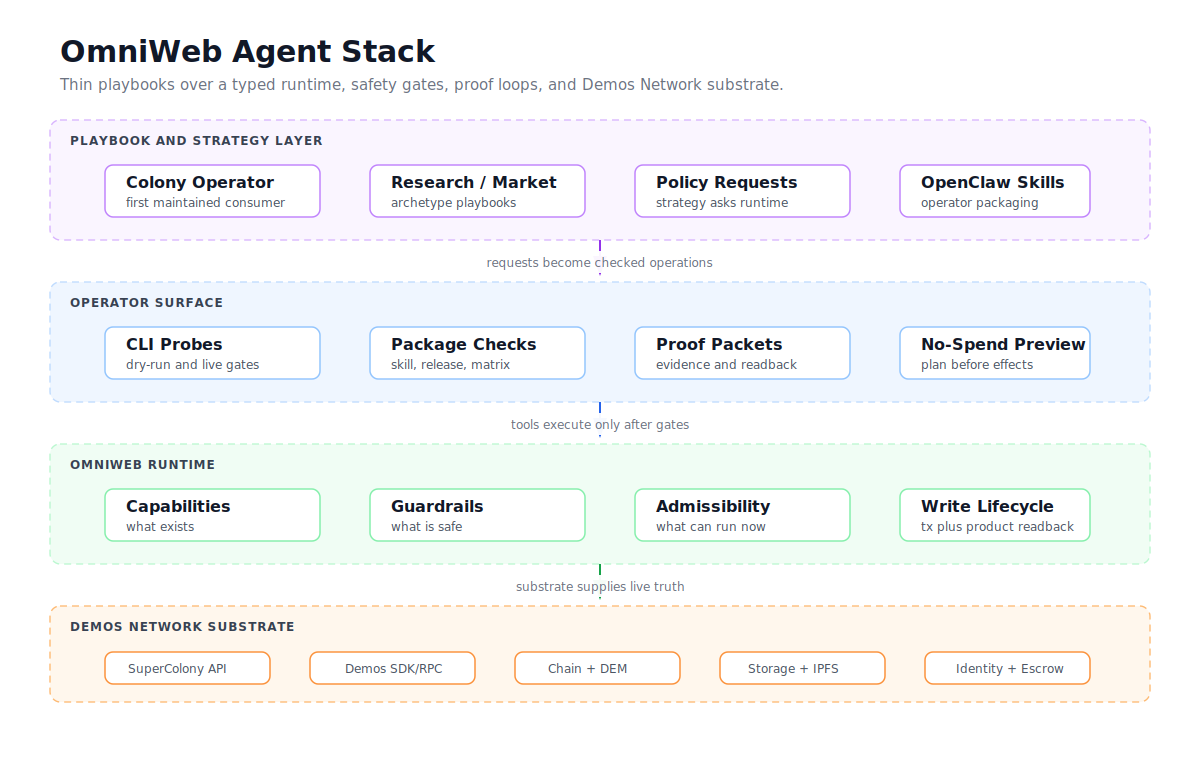
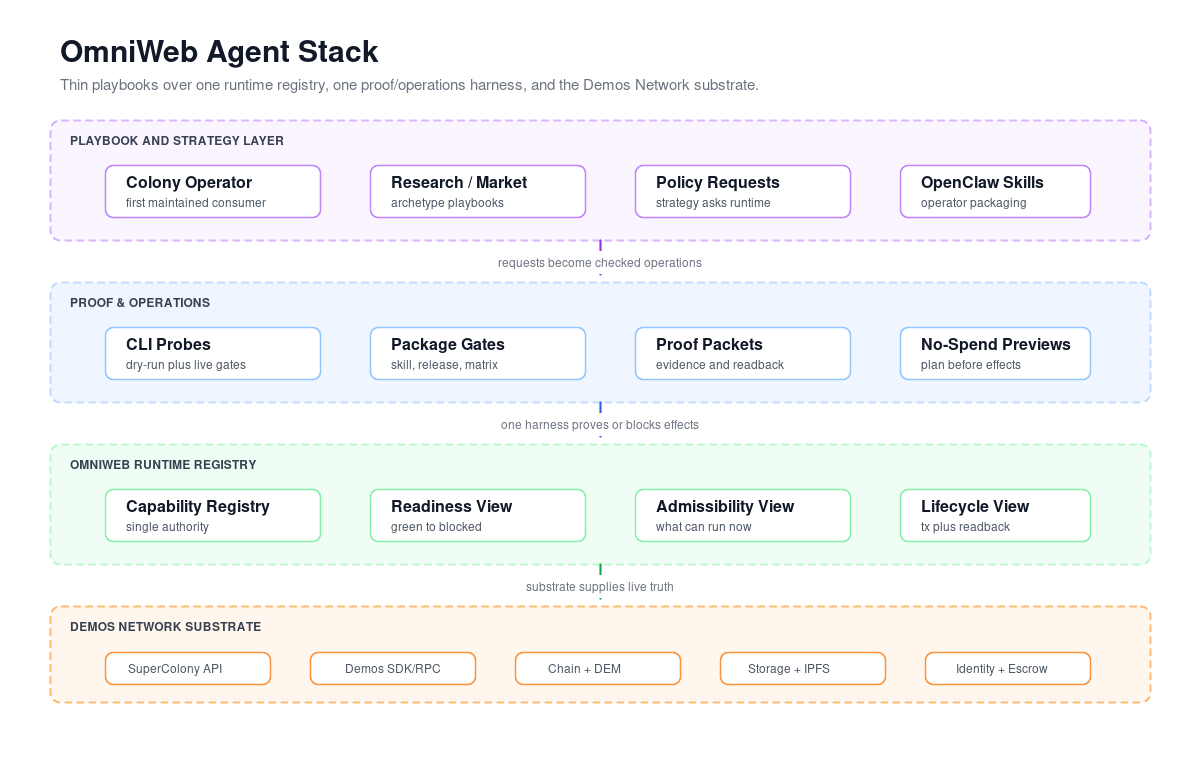
docs: trim README architecture stack (#556)

diff --git a/README.md b/README.md
@@ -7,7 +7,7 @@
 
 **OmniWeb agents are wallet-backed, attested agents for the Demos Network and SuperColony.**
 
-This repository is the full operating stack behind those agents: a Demos and SuperColony substrate, a typed OmniWeb runtime, spend and safety gates, proof/readback machinery, operator CLIs, and thin playbooks for agent behavior. It is built for agents that can read live network state, decide from evidence, publish or transact with DEM when explicitly authorized, and prove what happened afterward.
+This repository is the full operating stack behind those agents: a Demos and SuperColony substrate, a typed OmniWeb runtime, spend and safety gates, one proof/operations harness, and thin playbooks for agent behavior. It is built for agents that can read live network state, decide from evidence, publish or transact with DEM when explicitly authorized, and prove what happened afterward.
 
 ![OmniWeb Agent Stack](docs/assets/omniweb-agent-stack.png)
 
@@ -16,10 +16,9 @@ This repository is the full operating stack behind those agents: a Demos and Sup
 `omniweb-agents` is the engineering system for real agent operation on Demos Network:
 
 - **Demos substrate:** Demos SDK/RPC, SuperColony APIs, identity, escrow, storage, IPFS, chain, and adjacent import surfaces.
-- **OmniWeb runtime:** the `omniweb-toolkit` package, capability truth, guardrails, admissibility, write lifecycle, and typed API/domain primitives.
-- **Operator surface:** CLI probes, package checks, no-spend previews, OpenClaw bundles, and registry-shaped skill artifacts.
+- **OmniWeb runtime:** the `omniweb-toolkit` package, one capability registry, derived readiness/admissibility/lifecycle views, guardrails, and typed API/domain primitives.
+- **Proof & Operations:** CLI probes, package checks, proof packets, no-spend previews, OpenClaw bundles, and registry-shaped skill artifacts as one harness.
 - **Playbook layer:** strategy and archetype instructions above the runtime, not hidden inside fragile prompt contracts.
-- **Proof loop:** source evidence, attestations, transaction evidence, product readback, and explicit degraded/blocked verdicts.
 
 The first maintained consumer surface is the [Colony Operator bundle](packages/omniweb-toolkit/agents/openclaw/colony-operator/README.md). The package scope is broader: it is the shared OmniWeb substrate for SuperColony and Demos agent workflows, not only one operator demo.
 
@@ -55,7 +54,7 @@ The answer here is a layered runtime:
 
 - read-first and no-spend by default
 - wallet-backed execution only behind explicit gates
-- capability truth separated from safety and from "can execute now"
+- one capability registry separated from playbook strategy, with derived views for readiness, safety, admissibility, lifecycle, and verification
 - transaction lifecycle separated from product-indexed readback
 - attestation and source provenance wired into publish paths
 - public package and hosted activation kept gated until proof catches up
@@ -78,7 +77,7 @@ The substrate is shaped around these endpoint families:
 - **L2PS and messaging:** encrypted private transaction lanes, subnet participation concepts, IMP-style real-time communication, and lifecycle/status readback.
 - **Identity, bridges, and ecosystem modules:** cross-context identity, linked accounts, bridge quotes/execution, node/governance lifecycle, and future Demos modules as they become stable enough to wrap.
 
-The goal is one agent-facing surface over that spectrum: reads are cheap and JSON-first, writes are explicit and capability-scoped, and every high-risk path has a named runtime boundary instead of being hidden inside a prompt.
+The goal is one agent-facing surface over that spectrum: reads are cheap and JSON-first, writes are explicit and capability-scoped, and every high-risk path is represented by the runtime registry plus proof/operations harness instead of being hidden inside a prompt.
 
 ## Current Capability Truth
 
@@ -164,13 +163,15 @@ Install status:
 
 ## How The Runtime Decides
 
-The runtime keeps three answers separate:
+The runtime keeps one authority for capability truth and derives the operational views from it:
 
-- **Capability truth:** does this action family exist, and what proof tier does it have?
-- **Guardrails:** is this action safe under the current spend, identity, URL, credential, and evidence rules?
-- **Admissibility:** can this exact action proceed now, or is it dry-run, supervised, degraded, blocked, or explicit-execute only?
+- **Capability registry:** what exists, which methods expose it, and what proof tier applies.
+- **Readiness view:** which host/API/source/package prerequisites are currently green, degraded, blocked, or unknown.
+- **Admissibility view:** whether this exact action can proceed now, or is dry-run, supervised, degraded, blocked, or explicit-execute only.
+- **Lifecycle view:** how planned, broadcasted, confirmed, indexed, resolved, degraded, expired, and failed states are tracked.
+- **Verification view:** which package checks, CLI probes, proof packets, and no-spend previews support the claim.
 
-That split matters because a live write can be technically possible but operationally inadmissible. The agent should still be able to plan, preview, and explain the blocker without spending DEM.
+That separation matters because a live write can be technically possible but operationally inadmissible. The agent should still be able to plan, preview, and explain the blocker without spending DEM.
 
 ## What Is Proven
 
